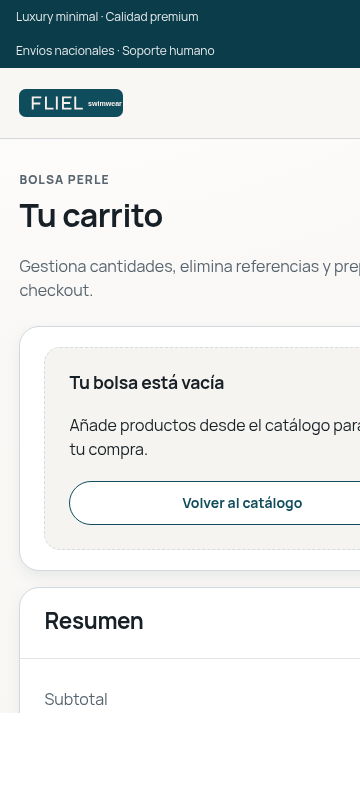
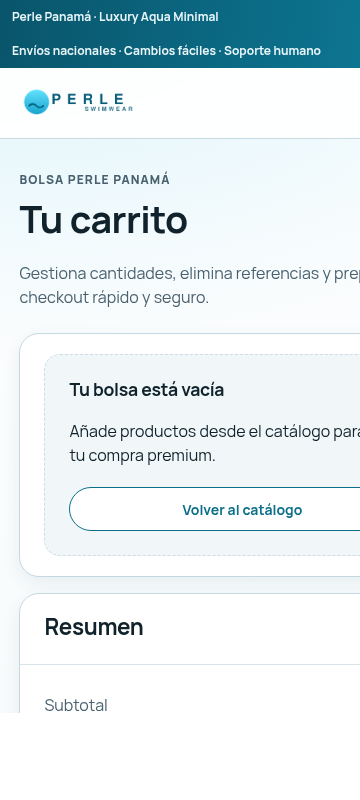
docs(ui): refresh storefront screenshots and verification notes

diff --git a/ecommerce_perle/docs/screenshots/README.md b/ecommerce_perle/docs/screenshots/README.md
@@ -1,6 +1,8 @@
 # Screenshots
 
-Este directorio contiene capturas de referencia del release:
+Este directorio contiene capturas de referencia del release actual.
+
+## Storefront
 - `home_desktop.png`
 - `home_mobile360.png`
 - `product_desktop.png`
@@ -11,19 +13,119 @@ Este directorio contiene capturas de referencia del release:
 - `checkout_mobile360.png`
 - `confirmation_desktop.png`
 - `confirmation_mobile360.png`
+
+## Admin
 - `admin-login.png`
 - `admin-dashboard-premium.png`
 - `admin-orders-changelist.png`
 - `admin-orders-action-confirmation.png`
 - `admin-stock-adjust-confirmation.png`
 
-Si estás ejecutando localmente, puedes regenerarlas con:
+## Regeneración local (storefront)
+
+Desde `ecommerce_perle/`:
+
 ```bash
 source .venv/bin/activate
 python manage.py runserver 127.0.0.1:8001
-chromium --headless --disable-gpu --no-sandbox --screenshot=docs/screenshots/home_desktop.png --window-size=1440,1024 http://127.0.0.1:8001/
-chromium --headless --disable-gpu --no-sandbox --screenshot=docs/screenshots/home_mobile360.png --window-size=360,800 http://127.0.0.1:8001/
-chromium --headless --disable-gpu --no-sandbox --screenshot=docs/screenshots/admin-login.png --window-size=1440,1024 http://127.0.0.1:8001/admin/login/
+```
+
+En otra terminal:
+
+```bash
+slug=$(curl -s http://127.0.0.1:8001/ | rg -o '/product/[^/]+/' | head -n1 | sed 's#^/product/##; s#/$##')
+
+chromium --headless --disable-gpu --no-sandbox --window-size=1366,768 --screenshot=docs/screenshots/home_desktop.png http://127.0.0.1:8001/
+chromium --headless --disable-gpu --no-sandbox --window-size=360,800 --screenshot=docs/screenshots/home_mobile360.png http://127.0.0.1:8001/
+
+chromium --headless --disable-gpu --no-sandbox --window-size=1366,768 --screenshot=docs/screenshots/product_desktop.png "http://127.0.0.1:8001/product/${slug}/"
+chromium --headless --disable-gpu --no-sandbox --window-size=360,800 --screenshot=docs/screenshots/product_mobile360.png "http://127.0.0.1:8001/product/${slug}/"
+
+chromium --headless --disable-gpu --no-sandbox --window-size=1366,768 --screenshot=docs/screenshots/cart_desktop.png http://127.0.0.1:8001/cart/
+chromium --headless --disable-gpu --no-sandbox --window-size=360,800 --screenshot=docs/screenshots/cart_mobile360.png http://127.0.0.1:8001/cart/
+
+chromium --headless --disable-gpu --no-sandbox --window-size=1366,768 --screenshot=docs/screenshots/checkout_desktop.png http://127.0.0.1:8001/checkout/
+chromium --headless --disable-gpu --no-sandbox --window-size=360,800 --screenshot=docs/screenshots/checkout_mobile360.png http://127.0.0.1:8001/checkout/
+```
+
+Para `confirmation_desktop.png` y `confirmation_mobile360.png`, se usa snapshot HTML local
+con una orden de prueba ligada a sesión (evita fricción de autenticación/sesión en headless):
+
+```bash
+python manage.py shell -c "
+from decimal import Decimal
+from pathlib import Path
+from django.test import Client
+from django.test.utils import override_settings
+from apps.catalog.models import Category, Product, ProductVariant
+from apps.customers.models import Customer, Address
+from apps.orders.models import Order, OrderItem
+
+with override_settings(ALLOWED_HOSTS=['testserver']):
+    c = Client()
+    c.get('/')
+    session_key = c.session.session_key
+
+    category, _ = Category.objects.get_or_create(name='QA Screenshots', defaults={'slug': 'qa-screenshots'})
+    product, _ = Product.objects.get_or_create(
+        slug='qa-confirmation-product',
+        defaults={'name': 'QA Confirmation Product', 'category': category, 'description': 'Producto de QA', 'is_active': True}
+    )
+    if product.category_id != category.id:
+        product.category = category
+        product.save(update_fields=['category'])
+
+    variant, _ = ProductVariant.objects.get_or_create(
+        sku='QA-CONF-001',
+        defaults={'product': product, 'size': 'M', 'color': 'Aqua', 'price_cop': 129000, 'is_active': True}
+    )
+    if variant.product_id != product.id:
+        variant.product = product
+        variant.save(update_fields=['product'])
+
+    customer, _ = Customer.objects.get_or_create(
+        email='qa-confirmation@example.com',
+        defaults={'full_name': 'QA Confirmation', 'phone': '50760000000'}
+    )
+    address, _ = Address.objects.get_or_create(
+        customer=customer,
+        line1='Costa del Este, Torre QA',
+        city='Ciudad de Panamá',
+        state='Panamá',
+        country='PA',
+        defaults={'postal_code': '0000'}
+    )
+
+    order = Order.objects.create(
+        customer=customer,
+        address=address,
+        status='confirmed',
+        subtotal=variant.price_cop,
+        discount_total=0,
+        grand_total=variant.price_cop,
+        session_key=session_key,
+    )
+    OrderItem.objects.create(
+        order=order,
+        variant=variant,
+        quantity=1,
+        unit_price=variant.price_cop,
+        line_total=variant.price_cop,
+    )
+
+    response = c.get(f'/orders/confirmation/{order.public_id}/')
+    html = response.content.decode('utf-8')
+
+css = Path('static/css/perle.css').read_text(encoding='utf-8')
+html = html.replace('<link rel=\"stylesheet\" href=\"/static/css/perle.css\" />', f'<style>{css}</style>')
+html = html.replace('<script src=\"/static/js/storefront.js\" defer></script>', '')
+html = html.replace('/static/', '../../static/')
+Path('docs/screenshots/confirmation-snapshot.html').write_text(html, encoding='utf-8')
+"
+
+chromium --headless --disable-gpu --no-sandbox --window-size=1366,768 --screenshot=docs/screenshots/confirmation_desktop.png "file://$(pwd)/docs/screenshots/confirmation-snapshot.html"
+chromium --headless --disable-gpu --no-sandbox --window-size=360,800 --screenshot=docs/screenshots/confirmation_mobile360.png "file://$(pwd)/docs/screenshots/confirmation-snapshot.html"
+rm -f docs/screenshots/confirmation-snapshot.html
 ```
 
 `admin-dashboard-premium.png` requiere sesión autenticada de admin.

diff --git a/ecommerce_perle/docs/audit/storefront_recovery_20260219/final_qa_storefront.md b/ecommerce_perle/docs/audit/storefront_recovery_20260219/final_qa_storefront.md
@@ -1,0 +1,43 @@
+# Verificación final storefront (2026-02-19)
+
+## Resultado general
+- Estado: `OK`
+- Objetivo: recuperar UI premium del storefront y validar no-regresión funcional.
+
+## Gates técnicos ejecutados
+1. `python manage.py check`
+- Resultado: `System check identified no issues (0 silenced).`
+- Evidencia: `docs/audit/storefront_recovery_20260219/final_check.log`
+
+2. `python manage.py test`
+- Resultado: `Ran 43 tests ... OK`
+- Evidencia: `docs/audit/storefront_recovery_20260219/final_tests.log`
+
+3. `python manage.py collectstatic --noinput`
+- Resultado: `1 static file copied ... 260 unmodified, 593 post-processed.`
+- Evidencia: `docs/audit/storefront_recovery_20260219/final_collectstatic.log`
+- Nota: aparecen warnings conocidos por rutas duplicadas de `admin/js/*` entre paquetes de admin; no bloquean runtime ni storefront.
+
+## Validación WhatsApp opcional
+Comprobación de render en home:
+- con `WHATSAPP_PHONE=""` -> no aparece `wa.me/`
+- con `WHATSAPP_PHONE="50760000000"` -> aparece `wa.me/50760000000`
+
+Evidencia:
+- `docs/audit/storefront_recovery_20260219/final_whatsapp_render.log`
+
+## Validación visual (capturas finales)
+- `docs/screenshots/home_desktop.png`
+- `docs/screenshots/home_mobile360.png`
+- `docs/screenshots/product_desktop.png`
+- `docs/screenshots/product_mobile360.png`
+- `docs/screenshots/cart_desktop.png`
+- `docs/screenshots/cart_mobile360.png`
+- `docs/screenshots/checkout_desktop.png`
+- `docs/screenshots/checkout_mobile360.png`
+- `docs/screenshots/confirmation_desktop.png`
+- `docs/screenshots/confirmation_mobile360.png`
+
+## Conclusión
+- El storefront queda estable, sin desbordes críticos en mobile `360px`, con logo visible y jerarquía visual premium consistente.
+- El flujo de compra y las reglas opcionales de WhatsApp se mantienen sin ruptura.
